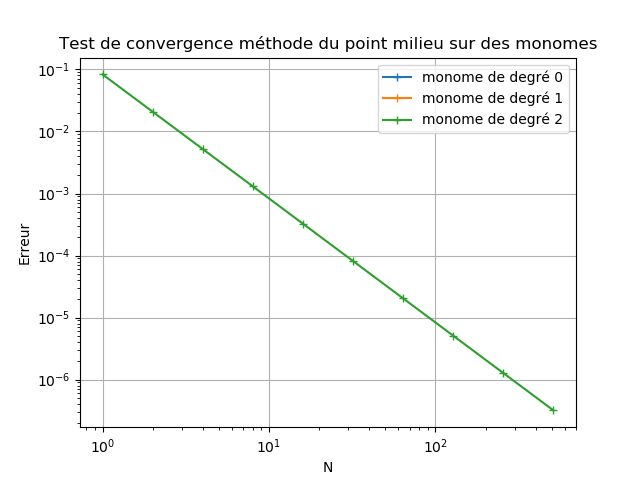
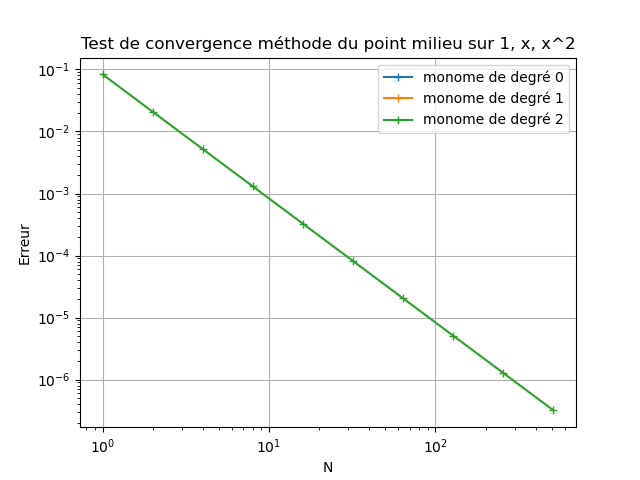
Précision (commentaires) dans les fichiers sources de départ

Changed region(s): [[0.0938, 0.0625, 0.9375, 0.125], [0.6562, 0.1562, 0.875, 0.2812], [0.0312, 0.4688, 0.0625, 0.5312]]

diff --git a/src/tests.py b/src/tests.py
@@ -5,36 +5,52 @@ import matplotlib.pyplot as plt
 import quadratures as q    # nos formules de quadrature
 import fonctions_test as f # nos fonctions pour faire des tests
 
-a,b = 0., 1.        # l'intervalle
-# On va faire l'approximation en découpant en 2^k morceaux pour k=0,1...k_max
-k_max = 10
-N = 2**np.arange(k_max) # pour avoir 2^{0,1,2,3,4...k_max}
+# Ce fichier réalise l'ensemble des tests qui sont demandé dans le TP.
+
+# Un premier exemple est donné ci-dessous, qui compare l'intégrale de la
+# fonction x^k sur l'intervalle [0,1] avec sa valeur approchée par la
+# méthode du point milieu. La comparaisons est faite sur des découpages
+# de [0,1] en n=1, 2, 2^2, 2^3,... 2^10 sous-intervalles de même
+# longueur, et pour les fonctions f(x)=1, f(x)=x et f(x)=x^2.
+
+a,b = 0., 1.            # l'intervalle
+k_max = 10              # On va faire l'approximation en découpant en
+                        # 2^k morceaux pour k=0,1...k_max
+
+N = 2**np.arange(k_max) # pour avoir 2^{0,1,2,3,4...k_max} -- un tableau
+                        # de type np.array
 h = (b-a)/N             # c'est aussi un tableau
 
 Q = np.zeros_like(N,dtype=np.float) # Alloue un tableau de la même
-                                    # taille que N, initialisé à 0
-E = np.zeros_like(N,dtype=np.float) # pour les erreurs
+                                    # taille que N, initialisé à 0, pour
+                                    # stocker les quadratures
+E = np.zeros_like(N,dtype=np.float) # Même chose, pour stocker les
+                                    # erreurs
 
-# monome de degré 0,1,2: f(x) = 1,x,^2
+# Pour le monome de degré 0,1,2: f(x) = 1,x,x^2
 for k in np.arange(3):
     print("test pour le degré {}".format(k))
     f.degre = k # degré des monomes à tester
-    I = f.monome_int(b)-f.monome_int(a) # intégrale exacte puisqu'on
-                                        # connait une primitive
-    # Calcul des quadratures et des erreurs
+    I = f.primitive_monome(b)-f.primitive_monome(a) # intégrale exacte
+                                                    # puisqu'on connait
+                                                    # une primitive
+    # Boucle sur les découpages
     for i in np.arange(k_max):
         Q[i] = q.pt_milieu(f.monome,a,b,N[i])
         E[i] = I-Q[i]
         print ("{:5d} {:14.8g} {:14.8g} {:14.8g}".format(N[i],I,Q[i],E[i]))
-    # On peut tracer les courbes d'erreur
+    # On peut tracer les courbes d'erreur en fonction de N, en échelles
+    # logarithmiques (suivant x et y)
     plt.loglog(N,E,'+-',label="monome de degré {}".format(k))
-    
-plt.title("Test de convergence méthode du point milieu sur des monomes")
+
+# Les trois courbes (pour 1, x, x^2) ont été tracées, on ajoute titre,
+# légende...
+plt.title("Test de convergence méthode du point milieu sur 1, x, x^2")
 plt.legend()
 plt.xlabel("N")
 plt.ylabel("Erreur")
 plt.grid()
-# Utilisez une des lignes ci-dessous pour voir/enregistrer le graphique
+# Utilisez une des deux lignes ci-dessous pour voir à l'écran ou enregistrer le graphique
 # plt.show() 
 plt.savefig("../img/test_1.png")
 

diff --git a/src/fonctions_test.py b/src/fonctions_test.py
@@ -15,8 +15,10 @@ def monome(x):
     """
     return x**degre
 
-def monome_int(x):
+def primitive_monome(x):
     """primitive de la fonction x^k. Par défaut k=0."""
 
     return x**(degre+1)/(degre+1.)
 
+# Définir ici les autres fonctions utilisées pour des tests et leurs
+# primitives si elles sont connues

diff --git a/src/quadratures.py b/src/quadratures.py
@@ -11,3 +11,5 @@ def pt_milieu(f,a,b,n):
     xm = a + (0.5+np.arange(n))*h
     Q = h*np.sum(f(xm))
     return Q
+
+# Définir ci-dessous les autres méthodes de quadrature
